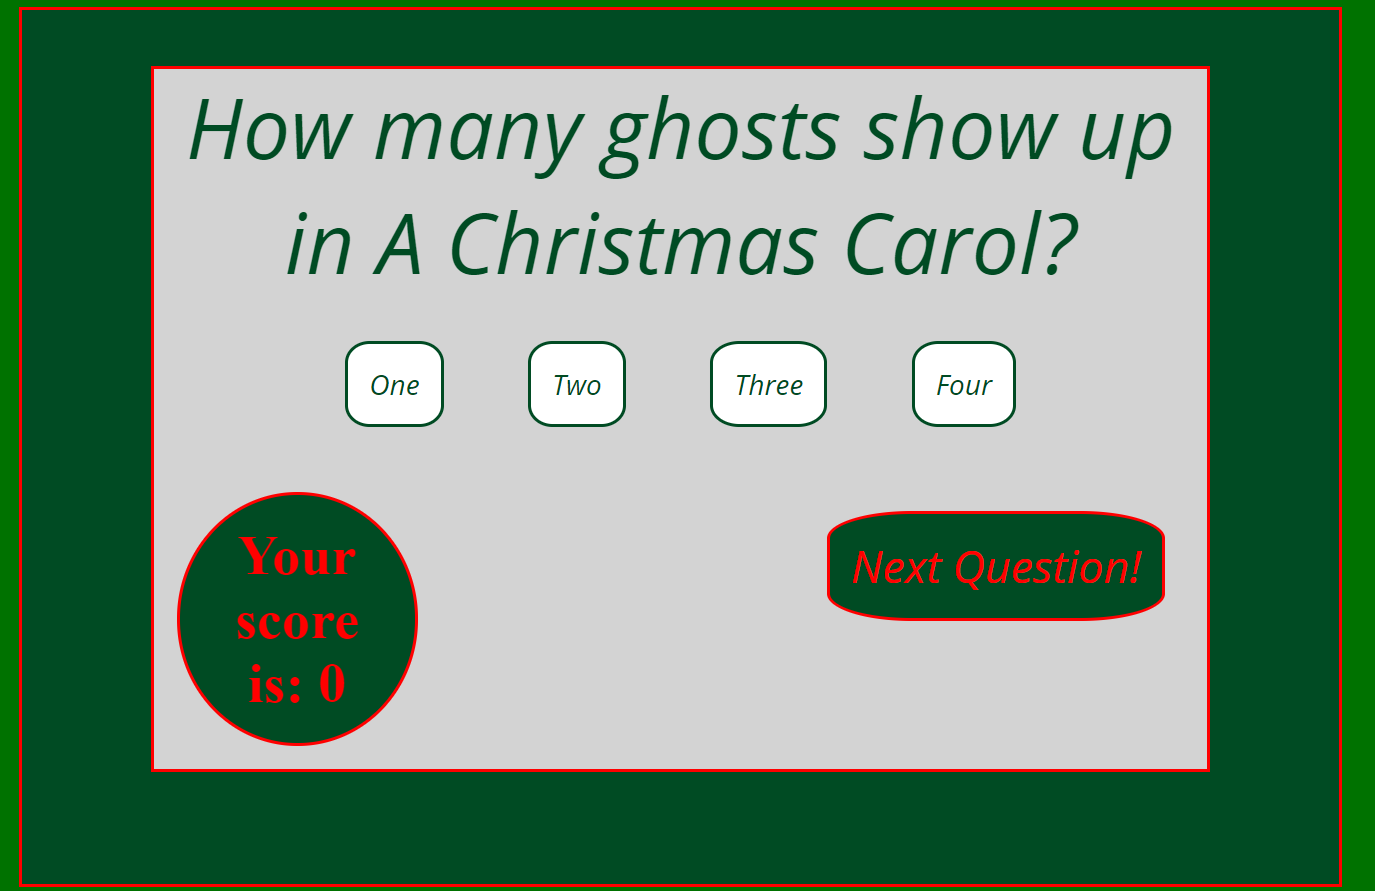
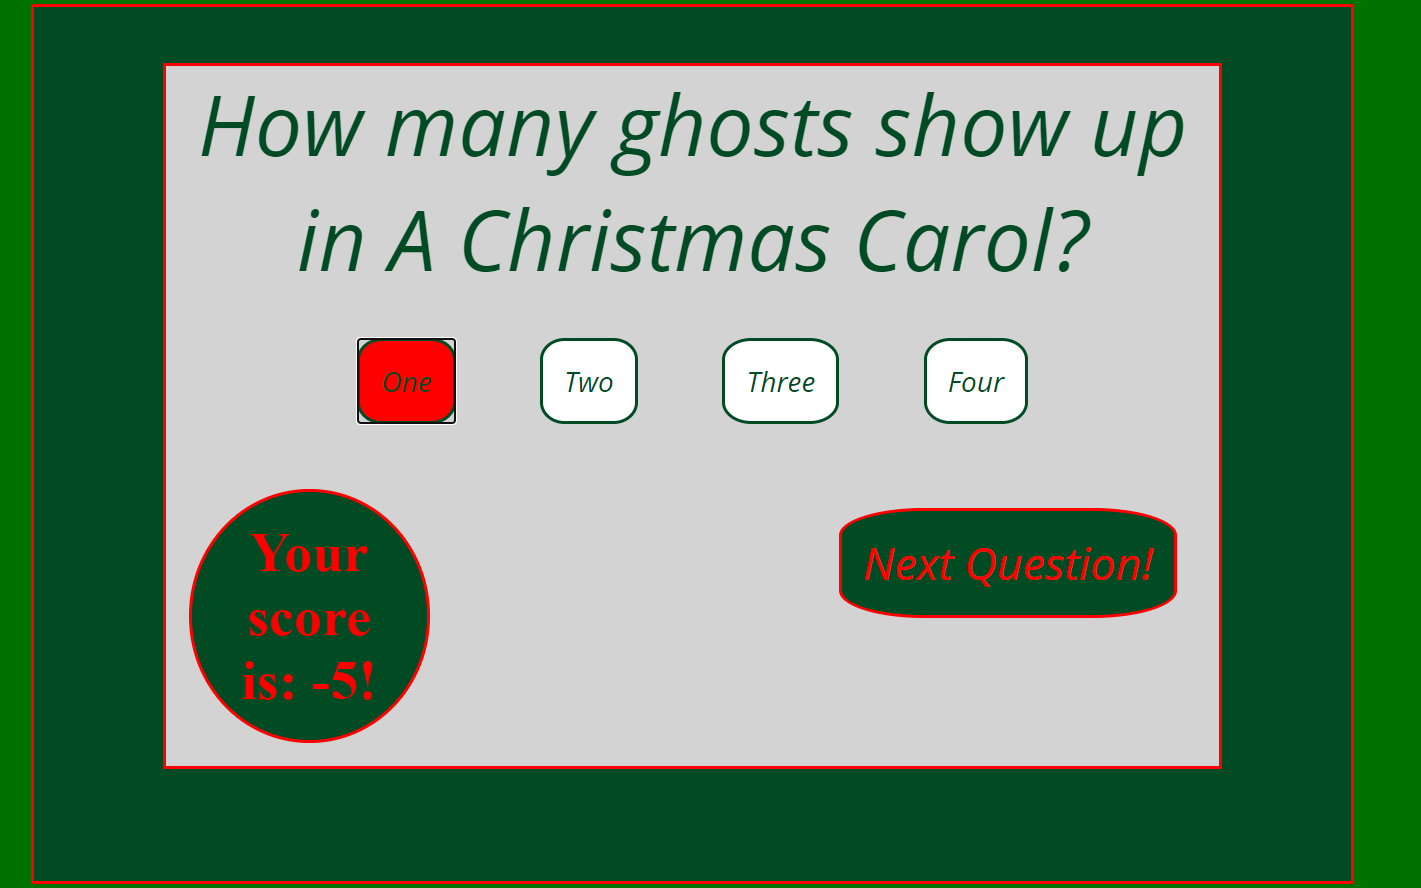
FINAL final commit, changed a screenshot in README

diff --git a/README.md b/README.md
@@ -2,22 +2,21 @@
 
 A game in HTML, CSS, and JavaScript. This trivia game is based on Christmas Movie trivia questions found on the web.
 
-View the deployed version here: https://kward94.github.io/Trivia-Game-JavaScript-/
+View the fully deployed version here: https://kward94.github.io/Trivia-Game-JavaScript-/
 
 ## Wire Frame
 
 ![image](https://user-images.githubusercontent.com/75279409/102917852-289ff000-4443-11eb-9ebd-3e36221321cd.png)
 
 ## Screenshots of Live App
-Instructions Modal
+### Instructions Modal
 ![image](https://user-images.githubusercontent.com/75279409/102942397-75e78600-4472-11eb-82ee-4539e6ad9a87.png)
 
-Banner/Header
+### Banner/Header
 ![image](https://user-images.githubusercontent.com/75279409/102942327-4c2e5f00-4472-11eb-8f25-8cf404658ec7.png)
 
-Game Window
-![image](https://user-images.githubusercontent.com/75279409/102942256-14bfb280-4472-11eb-97c3-e54699533af7.png)
-
+### Game Window
+![image](https://user-images.githubusercontent.com/75279409/102942672-38372d00-4473-11eb-9b53-ec78e3520755.png)
 
 ## User Stories
 
